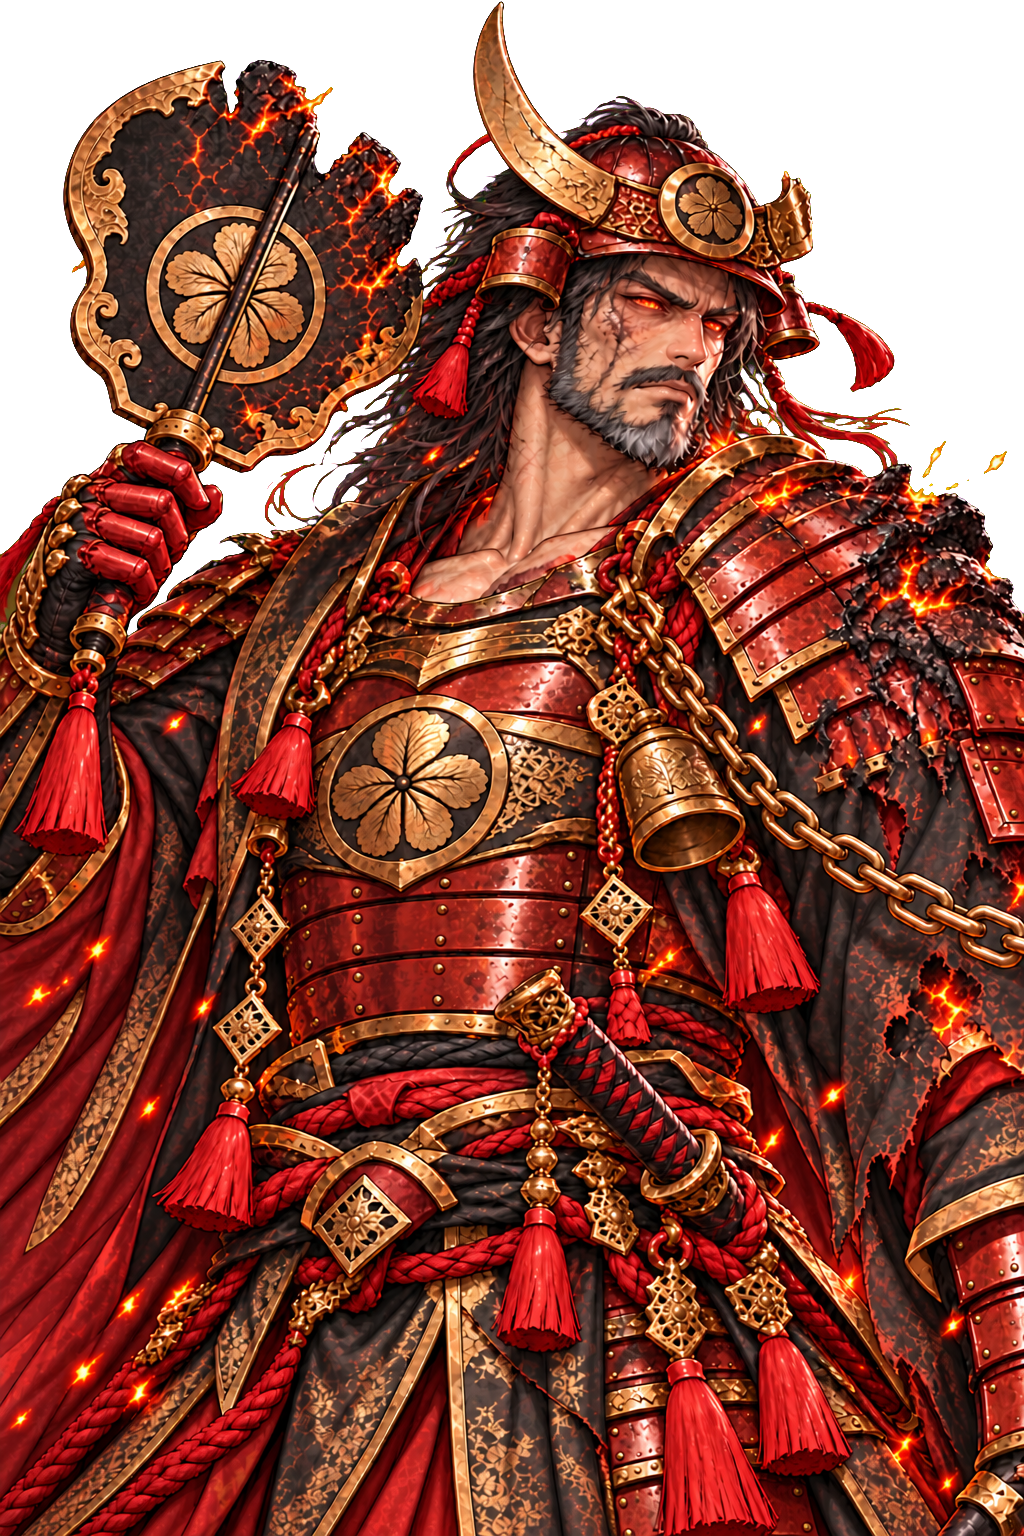
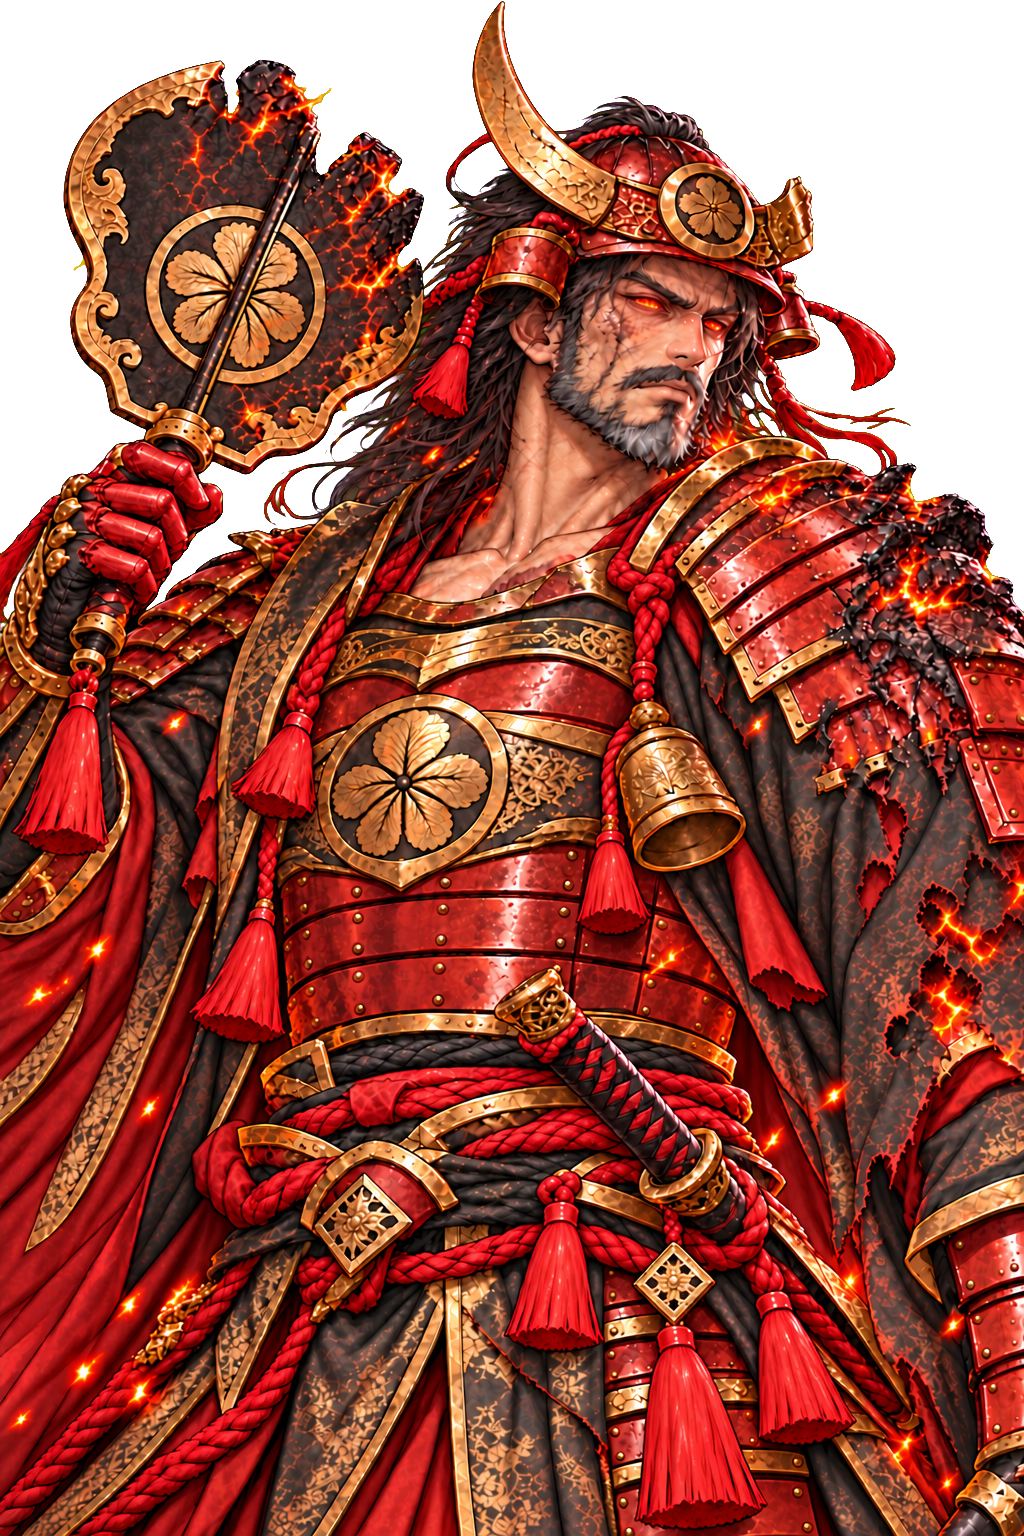
The souls' paintings as the user revised them through the painting agents: Akagane without his chain, Mizore repainted as a white wolf-woman in her frosted indigo physician's robes (tail on the full-body), Hibiki in purple storm-patterned robes without a chain. Same canvases and framing as before, c

diff --git a/Story/Souls.md b/Story/Souls.md
@@ -193,7 +193,8 @@ Today `BoonChoiceUI.Show` puts Oni's painted portrait on the left with the caugh
 
 Busts go in `Assets/Art/Portraits/` (`Akagane_Bust.png`, `Mizore_Bust.png`, `Hibiki_Bust.png`) and are wired the way
 `ElementArt.portrait` is today, through a `Ninja/Apply …` command, not by hand. Each soul file's **Look** section is
-the art brief. They should match each other: same framing, the bound chain running out of frame in every one.
+the art brief. They should match each other in framing. (The painted portraits, as revised, drop the chain on all three,
+and Mizore is a white wolf-woman; see each file's Look.)
 
 **The souls he holds (built).** Each element's soul on the boon screen is painted for the one who caught it (GPT image
 gen, `Assets/Art/Portraits/Soul_<Fire|Water|Lightning>_Painted.png`); in play the pixel soul frames still drop:

diff --git a/Story/Mizore.md b/Story/Mizore.md
@@ -17,7 +17,9 @@ useful.
 ## Look
 
 **The painting.** Her talk-scene portrait (`Assets/Art/Portraits/Mizore_Closeup.png`, with `Mizore_Full.png`) was painted
-from this brief in the boss portraits' style (GPT image gen), facing right toward Oni.
+from this brief in the boss portraits' style (GPT image gen), then revised by the user: **she's painted as a white
+wolf-woman**, silver-furred with a wolf's face, ears and tail, in the same frosted indigo physician's robes, bell and
+inro, with ice-blue eyes. The art is the reference for how she looks now; the human description below is the earlier brief.
 
 For the boon screen's pixel bust:
 

diff --git a/Story/Akagane.md b/Story/Akagane.md
@@ -17,7 +17,8 @@ always one step below them, and he never once pretended not to mind.
 ## Look
 
 **The painting.** His talk-scene portrait (`Assets/Art/Portraits/Akagane_Closeup.png`, with `Akagane_Full.png`) was painted
-from this brief in the boss portraits' style (GPT image gen), facing right toward Oni.
+from this brief in the boss portraits' style (GPT image gen), facing right toward Oni. The user's revision drops the
+chain: he's painted without it, the bell hanging free at his chest.
 
 For the boon screen's pixel bust (head and shoulders, facing three-quarters toward Oni's portrait):
 

diff --git a/Story/Hibiki.md b/Story/Hibiki.md
@@ -17,7 +17,8 @@ drowned it.
 ## Look
 
 **The painting.** Her talk-scene portrait (`Assets/Art/Portraits/Hibiki_Closeup.png`, with `Hibiki_Full.png`) was painted
-from this brief in the boss portraits' style (GPT image gen), facing right toward Oni.
+from this brief in the boss portraits' style (GPT image gen), facing right toward Oni. The user's revision dresses her in
+purple storm-patterned robes (cloud and lightning motifs, her Storm colour) and drops the chain.
 
 For the boon screen's pixel bust:
 
